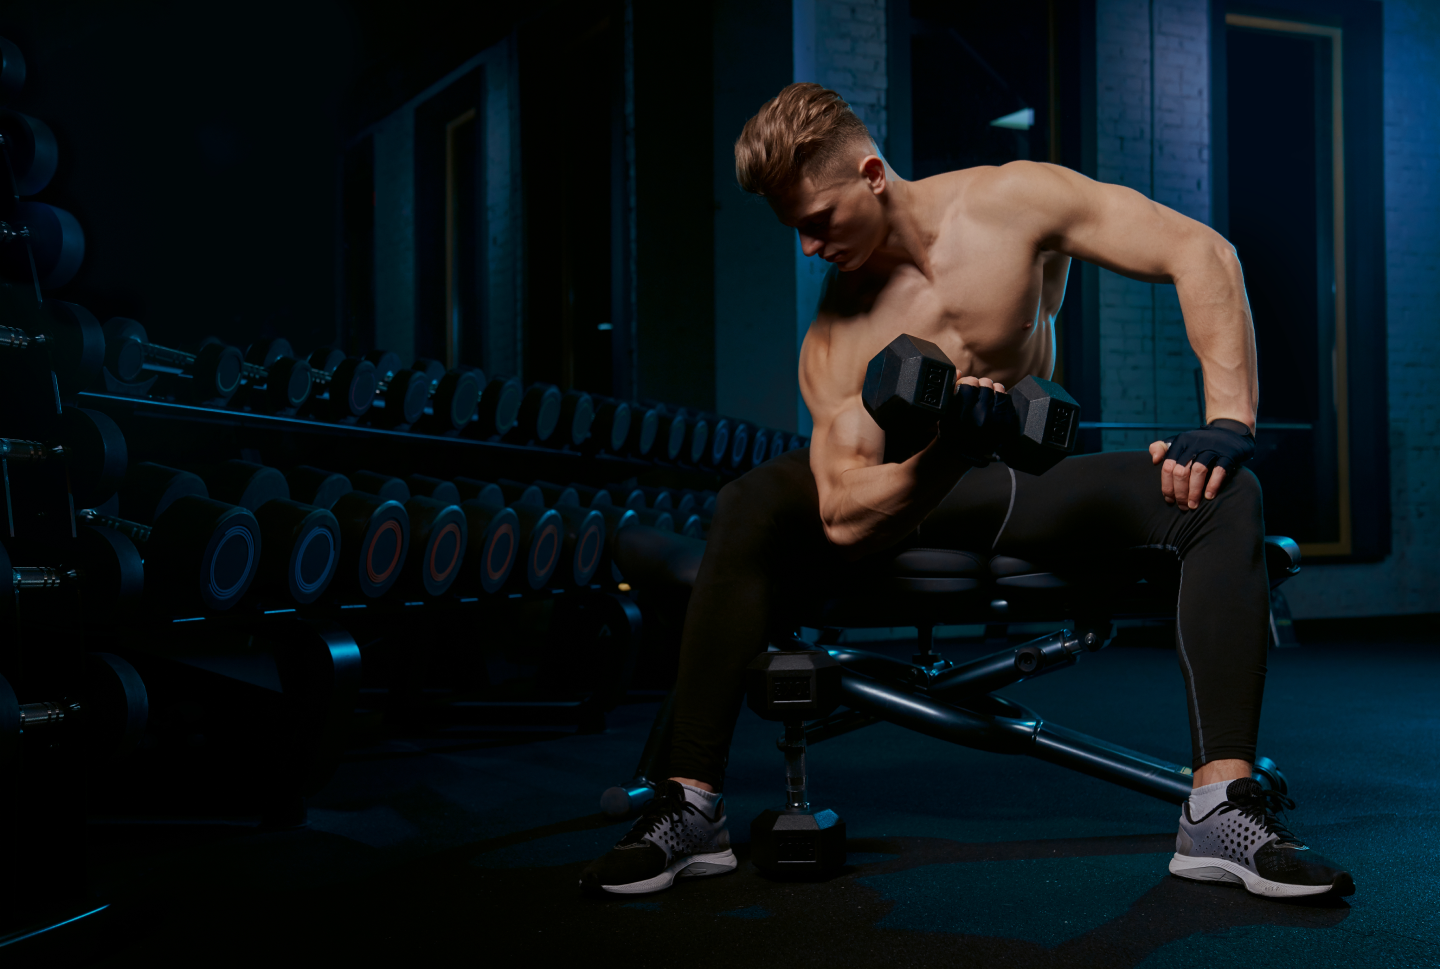
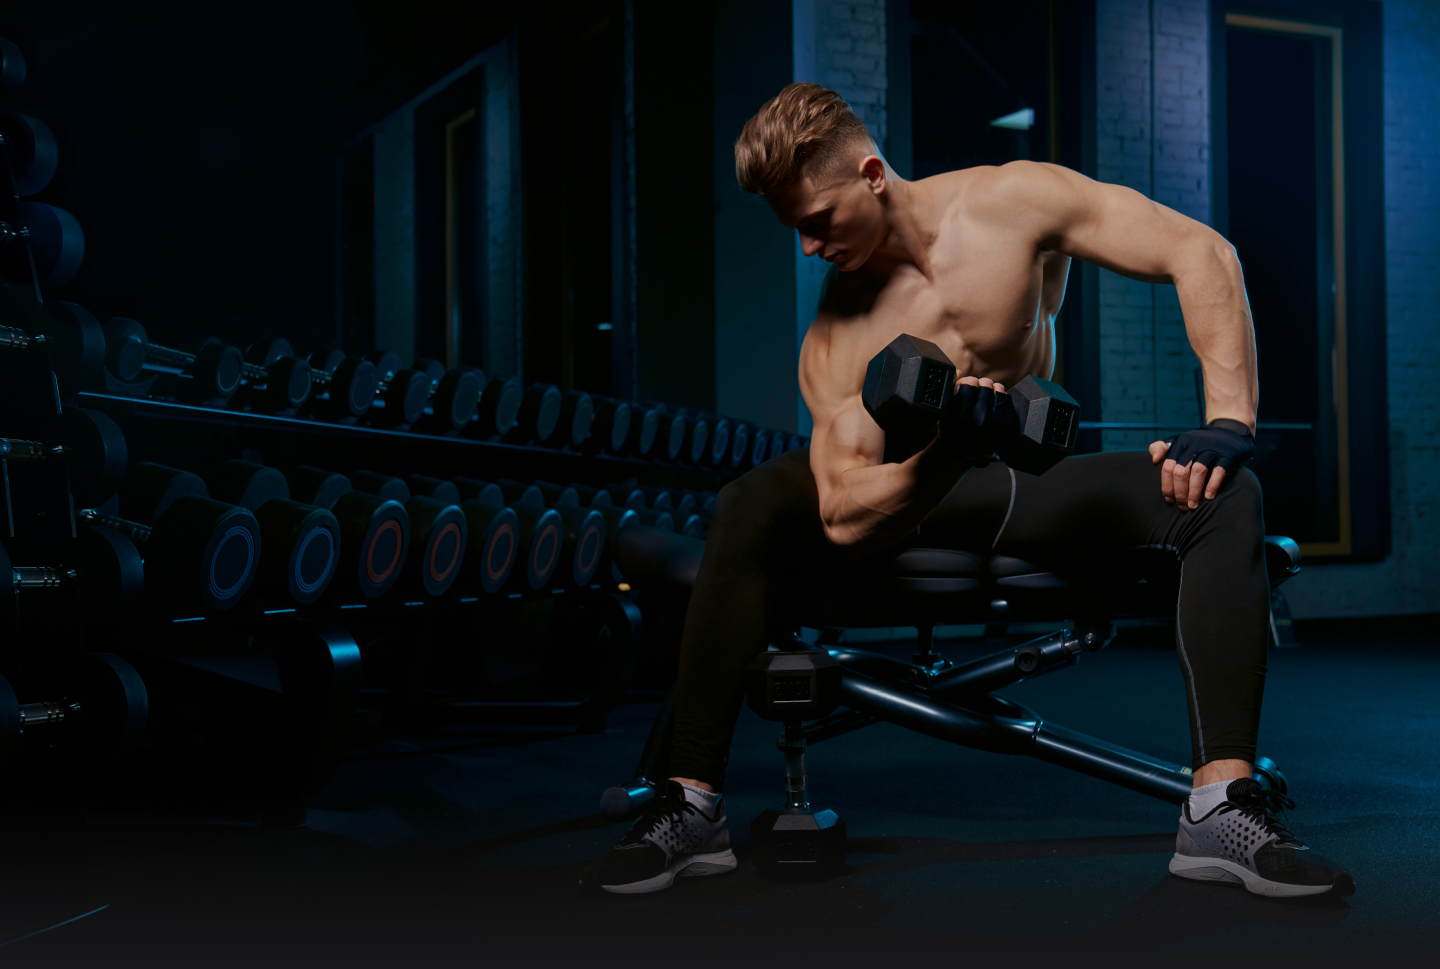
adaptive slider

diff --git a/src/features/Home/ui/SliderHome.jsx b/src/features/Home/ui/SliderHome.jsx
@@ -1,109 +1,120 @@
 // src/features/Home/ui/SliderHome.jsx
 import React from 'react';
 import { Swiper, SwiperSlide } from 'swiper/react';
-import { Navigation, Pagination } from 'swiper/modules';
+import { Navigation, Pagination, Autoplay } from 'swiper/modules';
 import 'swiper/css';
 import 'swiper/css/navigation';
 import 'swiper/css/pagination';
-import Container from '../../../shared/helpers/Container'
+import Container from '../../../shared/helpers/Container';
 import slide1 from '../../../shared/assets/img/Rectangle 4.png';
 import slide2 from '../../../shared/assets/img/slide2.png';
 import phoneicon from '../../../shared/assets/svg/phone.svg';
-import mapPin from '../../../shared/assets/svg/mapPin.svg'
-import instgram from '../../../shared/assets/svg/instagram.svg'
-import vector from '../../../shared/assets/svg/vector.svg'
+import mapPin from '../../../shared/assets/svg/mapPin.svg';
+import instgram from '../../../shared/assets/svg/instagram.svg';
+import vector from '../../../shared/assets/svg/vector.svg';
 
 const SliderHome = () => {
     return (
-
+        <div>
 
         <Swiper
-            modules={[Navigation, Pagination]}
+            modules={[Navigation, Pagination, Autoplay]}
             navigation={{
                 prevEl: '.swiper-button-prev',
                 nextEl: '.swiper-button-next',
             }}
             pagination={{ clickable: true }}
+            autoplay={{
+                delay: 5000,
+                disableOnInteraction: false,
+            }}
             className="mySwiper"
         >
-            <SwiperSlide>
-                <div style={{ backgroundImage: `url(${slide1})` }} className=" w-full  bg-cover h-[996px] ">
-                    <Container>
-                        <div className=''>
-                            <div className='flex p-[30px]'>
-                                <img src={phoneicon} alt="" />
-                                <span className='text-white text-[24px]'>+996 700-72-77-45</span>
+                <SwiperSlide>
+                    <div
+                        style={{ backgroundImage: `url(${slide1})` }}
+                        className="w-full h-[700px] md:h-[983px] bg-cover bg-center flex items-center justify-center"
+                    >
+                        <Container>
+                            <div>
+                                <div className='flex p-[30px]'>
+                                    <img src={phoneicon} alt="Phone Icon" />
+                                    <span className='text-white text-[15px] md:text-[24px]'>+996 700-72-77-45</span>
+                                </div>
+                                <div className='w-[300px] md:w-[640px] h-auto md:h-[146px]'>
+                                    <h1 className='text-white text-[32px] md:text-[67px] font-bold leading-tight mt-[60px] md:mt-[90px] ml-[5px] md:ml-[30px]'>
+                                        БЕРЕМ НАГРУЗКУ НА СЕБЯ
+                                    </h1>
+                                </div>
+                                <div className="mt-[20px] md:mt-[70px] ml-[10px] md:ml-[30px]">
+                                    <button className='w-[270px] md:w-[474px] h-[40px] md:h-[66px] bg-[#FE0404] rounded-xl text-white text-[15px] md:text-[27px]'>
+                                        РАССРОЧКА 6/9/12 МЕСЯЦЕВ
+                                    </button>
+                                </div>
+                                <ul className="list-disc pl-4 md:pl-6 mb-6 text-white mt-4 md:mt-[70px] ml-4 md:ml-[40px] text-[18px] md:text-[24px]">
+                                    <li>Тренажерный зал</li>
+                                    <li>Фитнес</li>
+                                    <li>Работаем 24/7</li>
+                                </ul>
+                                <div className='flex gap-2 mt-[40px] md:mt-[90px] ml-[30px]'>
+                                    <img src={mapPin} alt="Map Pin" />
+                                    <p className='text-white text-[13px] md:text-[18px]'>
+                                        г. Батайск, M. Горького, д. 84
+                                    </p>
+                                </div>
+                                <div className='flex flex-col ml-[30px] mt-1 md:flex-row md:justify-between md:mt-[90px]'>
+                                    <button className='text-white flex gap-2 justify-center w-[200px] h-[40px] items-center border border-white md:p-[10px] rounded-xl'>
+                                        <img src={instgram} alt="Instagram Icon" />Мы в Instagram
+                                    </button>
+                                    <button className='flex w-[208px] h-[40px] bg-[#E41C26] text-white text-[20px] justify-center mt-[20px] md:mt-0 items-center gap-3 rounded-xl'>
+                                        Смотреть все <img src={vector} alt="Arrow Icon" />
+                                    </button>
+                                </div>
                             </div>
-                            <div className='w-[640px] h-[146px] '>
-                                <h1 className='text-white  text-[67px] font-bold leading-tight mt-[70px] ml-[30px]'>БЕРЕМ НАГРУЗКУ
-                                    НА СЕБЯ</h1>
-                            </div>
-                            <div className=" mt-[70px] ml-[30px]    ">
-                                <button className='w-[474px] h-[66px] bg-[#FE0404]  rounded-xl text-white text-[27px] ' >
-                                     РАССРОЧКА 6/9/12 МЕСЯЦЕВ
-                                </button>
-                               
-                            </div>
+                        </Container>
+                    </div>
+                </SwiperSlide>
 
-                            <ul className="list-disc pl-6 mb-6  text-white  mt-[70px] ml-[40px] text-[24px] ">
-                                <li className=" ">Тренажерный зал</li>
-                                <li className="">Тренажерный зал</li>
-                                <li className="">Работаем 24/7</li>
-                            </ul>
-
-                            <div className='flex  gap-2  mt-[90px] ml-[30px]'>
-                                <img src={mapPin} alt="" />
-                                <p className='text-white  text-[18px]'>г. Батайск, M. Горького, д. 84</p>
+                <SwiperSlide>
+                    <div
+                        style={{ backgroundImage: `url(${slide2})` }}
+                        className="bg-[#030305] w-full h-[700px] md:h-[983px] bg-start flex items-start justify-start md:justify-end transform scale-x-[-1] md:scale-x-100"
+                    >
+                        <Container>
+                            <div className='flex flex-col justify-start md:justify-end transform scale-x-[-1] md:scale-x-100'>
+                                <div className='flex p-4 md:p-[30px] justify-start md:justify-end w-full'>
+                                    <img src={phoneicon} alt="Phone Icon" />
+                                    <span className='text-white text-[15px] md:text-[24px] ml-2 md:ml-4'>+996 700-72-77-45</span>
+                                </div>
+                                <div className='w-full md:w-[823px] text-left md:text-right ml-0 md:ml-auto'>
+                                    <h1 className='text-white text-[32px] md:text-[67px] font-bold leading-tight mt-[40px] md:mt-[70px]'>Более 20 различных групповых программ</h1>
+                                </div>
+                                <p className='w-full md:w-[623px] text-[15px] md:text-[24px] text-white mt-4 md:mt-[30px] text-left md:text-right ml-0 md:ml-auto'>
+                                    Огромный выбор групповых программ, которые проведут наши тренеры. Современный зал и позитивная атмосфера принесет не только пользу, но и доставит удовольствие от тренировок.
+                                </p>
+                                <div className='flex justify-start md:justify-end gap-2 mt-[40px] md:mt-[90px] ml-0 md:ml-auto'>
+                                    <img src={mapPin} alt="Map Pin" />
+                                    <p className='text-white text-[13px] md:text-[18px]'>г. Батайск, M. Горького, д. 84</p>
+                                </div>
+                                <div className='flex justify-start md:justify-end mt-4 md:mt-[20px] ml-0 md:ml-auto'>
+                                    <button className='text-white flex gap-2 justify-center items-center border border-white p-2 md:p-[10px] rounded-xl'>
+                                        <img src={instgram} alt="Instagram Icon" />Мы в Instagram
+                                    </button>
+                                </div>
                             </div>
+                        </Container>
+                    </div>
+                </SwiperSlide>
 
-                            <div className='flex   justify-between mt-[90px] ml-[30px]  '>
-                                <button className='text-white flex gap-2 justify-center items-center border border-white  p-[10px] rounded-xl'> <img src={instgram} alt="" />Мы в Instagram</button>
-                                <button className=' flex w-[208px] h-[40px] bg-[#E41C26] text-white text-[20px] justify-center items-center gap-3 rounded-xl'> Смотреть все <img src={vector} alt="" /></button>
-                            </div>
-                        </div>
-                    </Container>
-                </div>
-            </SwiperSlide>
 
-            <SwiperSlide>
-                <div style={{ backgroundImage: `url(${slide2})` }} className=" bg-[#030305] w-full    bg-cover h-[996px]  ">
-                    <Container>
-                        <div className='flex flex-col justify-end '>
-                            <div className='flex p-[30px] justify-center '>
-                                <img src={phoneicon} alt="" />
-                                <span className='text-white text-[24px]'>+996 700-72-77-45</span>
-                            </div>
-                            <div className='ml-[500px]    w-[823px]  '>
-                                <h1 className='text-white  text-[67px] font-bold leading-tight mt-[70px] '>Более 20 различных
-                                    групповых программ</h1>
-                            </div>
-                           
 
-                            <p className=' w-[623px] text-[24px] text-white mt-[30px]  ml-[550px]'>Огромный выбор групповых программ, которые проведут наши тренеры. Современный зал
-                                и позитивная атмосфера принесет не только пользу, но и доставит удовольствие от тренировок.</p>
 
-                            <div className='flex justify-end gap-2  mt-[90px] ml-[30px]'>
-                                <img src={mapPin} alt="" />
-                                <p className='text-white  text-[18px]'>г. Батайск, M. Горького, д. 84</p>
-                            </div>
-
-                            <div className='flex   justify-end mt-[20px] ml-[30px]  '>
-                                <button className='text-white flex gap-2 justify-center items-center border border-white  p-[10px] rounded-xl'> <img src={instgram} alt="" />Мы в Instagram</button>
-                               
-                            </div>
-                        </div>
-                    </Container>
-                </div>
-            </SwiperSlide>
-
-          
 
             <div className="swiper-button-next m-4 p-7 custom-swiper-button flex items-center justify-center bg-red-900 w-12 h-12 text-white rounded-full shadow-lg hover:bg-white hover:text-red-900 transition duration-300 absolute right-2 top-1/2 transform -translate-y-1/2"></div>
             <div className="swiper-button-prev m-4 p-7 custom-swiper-button flex items-center justify-center bg-red-900 w-12 h-12 text-white rounded-full shadow-lg hover:bg-white hover:text-red-900 transition duration-300 absolute left-2 top-1/2 transform -translate-y-1/2"></div>
         </Swiper>
-
+        </div>
     );
 };
 
 export default SliderHome;
-
